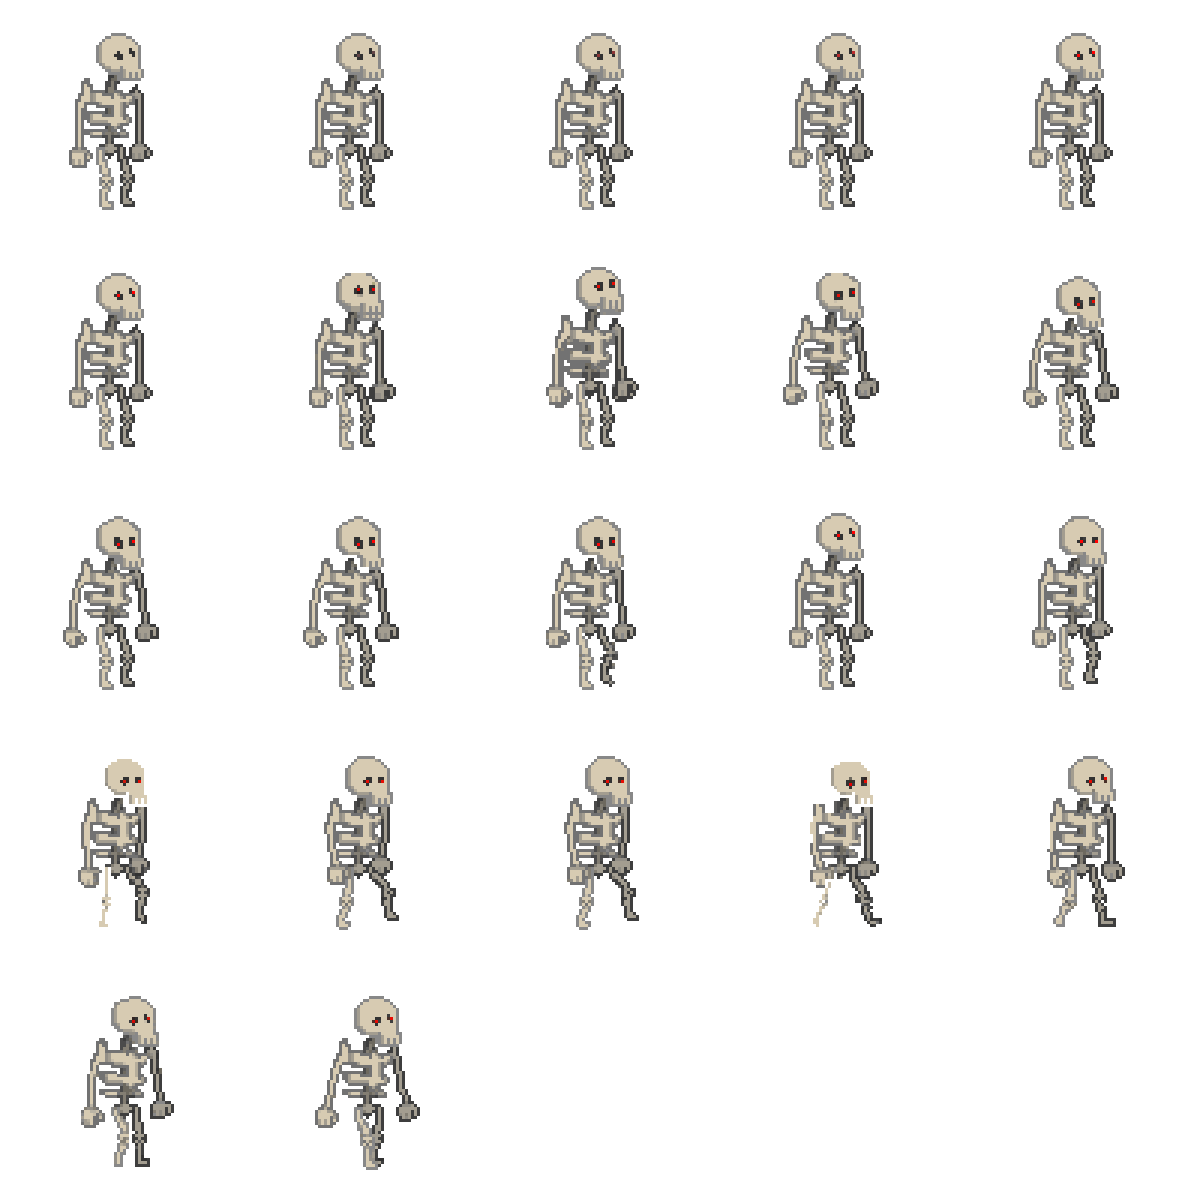
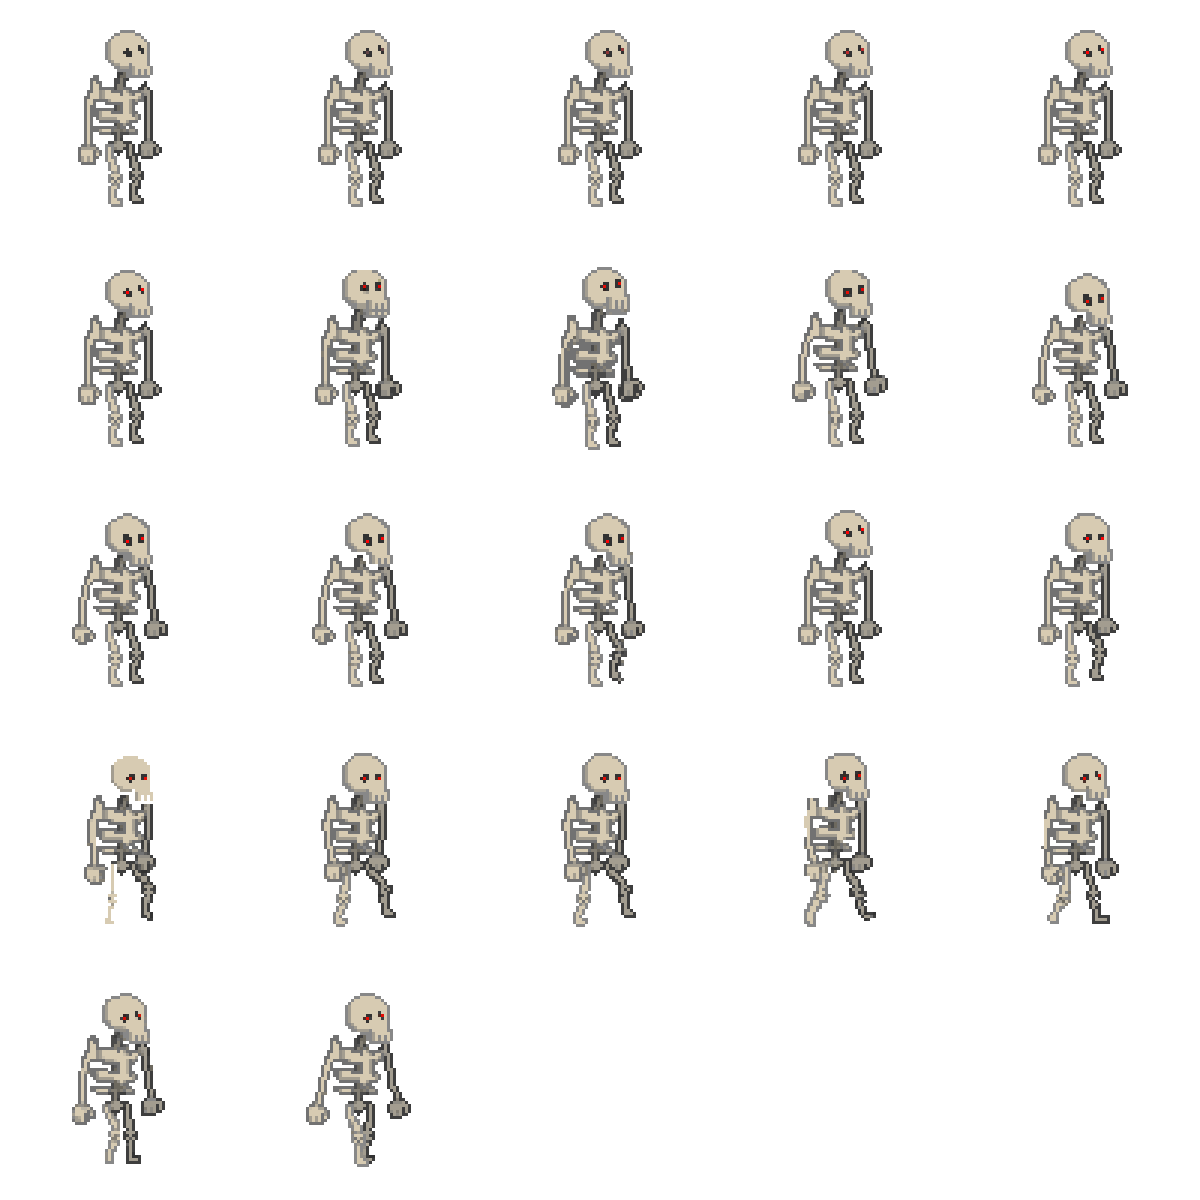
correction de la methode animation (methode prête, a voir si efficace)

diff --git a/src/main/java/universite_paris8/iut/nchaieb/sae_jeux/vue/TerrainVue.java b/src/main/java/universite_paris8/iut/nchaieb/sae_jeux/vue/TerrainVue.java
@@ -49,32 +49,37 @@ public class TerrainVue {
     }
     public void animation()  {
         ImageView iv = ajouterEntite("squelette");
-        if (iv == null) return;
 
         int largeurCase = 240;
         int hauteurCase = 240;
-        int totalFrames = 32;
+        int totalFrames = 11;
 
-        int[] frameIndex = {0};
+        int[] frameIndex = {12};
+        this.stackPane.getChildren().add(iv);
+        Timeline squeletteMarche = new Timeline(
+                new KeyFrame(Duration.millis(120), e -> {
+                    int x = frameIndex[0] % 5;
+                    int y = frameIndex[0] / 5;
+                    if(frameIndex[0]/5==0){
+                        x = frameIndex[0] % 2;
+                        y =  5;
+                    }
 
-        Timeline timeline = new Timeline(
-                new KeyFrame(Duration.millis(100), e -> {
-                    int x = frameIndex[0] % 16;  // colonne (0 à 15)
-                    int y = frameIndex[0] / 16;  // ligne (0 ou 1)
-                    iv.setViewport(new Rectangle2D(
-                            x * largeurCase,  // position x en pixels
-                            y * hauteurCase,  // position y en pixels
-                            largeurCase,
-                            hauteurCase
+                    System.out.println(frameIndex[0]);
 
-                    ));
-                    frameIndex[0] = (frameIndex[0] + 1) % totalFrames;
-                    this.stackPane.getChildren().add(iv);
+
+
+                    iv.setViewport(new Rectangle2D(x * largeurCase, y * hauteurCase, largeurCase, hauteurCase));
+                    frameIndex[0] = (frameIndex[0] + 1) ;
+                    if (frameIndex[0]==22){
+                        frameIndex[0]=12;
+                    }
+
                 })
         );
 
-        timeline.setCycleCount(Timeline.INDEFINITE);
-        timeline.play();
+        squeletteMarche.setCycleCount(Timeline.INDEFINITE);
+        squeletteMarche.play();
 
 
 
@@ -90,9 +95,6 @@ public class TerrainVue {
     public ImageView ajouterEntite(String entite) {
         Image image = verifMonstre(entite);
         if (image != null) {
-
-
-
         }
         ImageView squeletteView = new ImageView(image);
         return squeletteView;